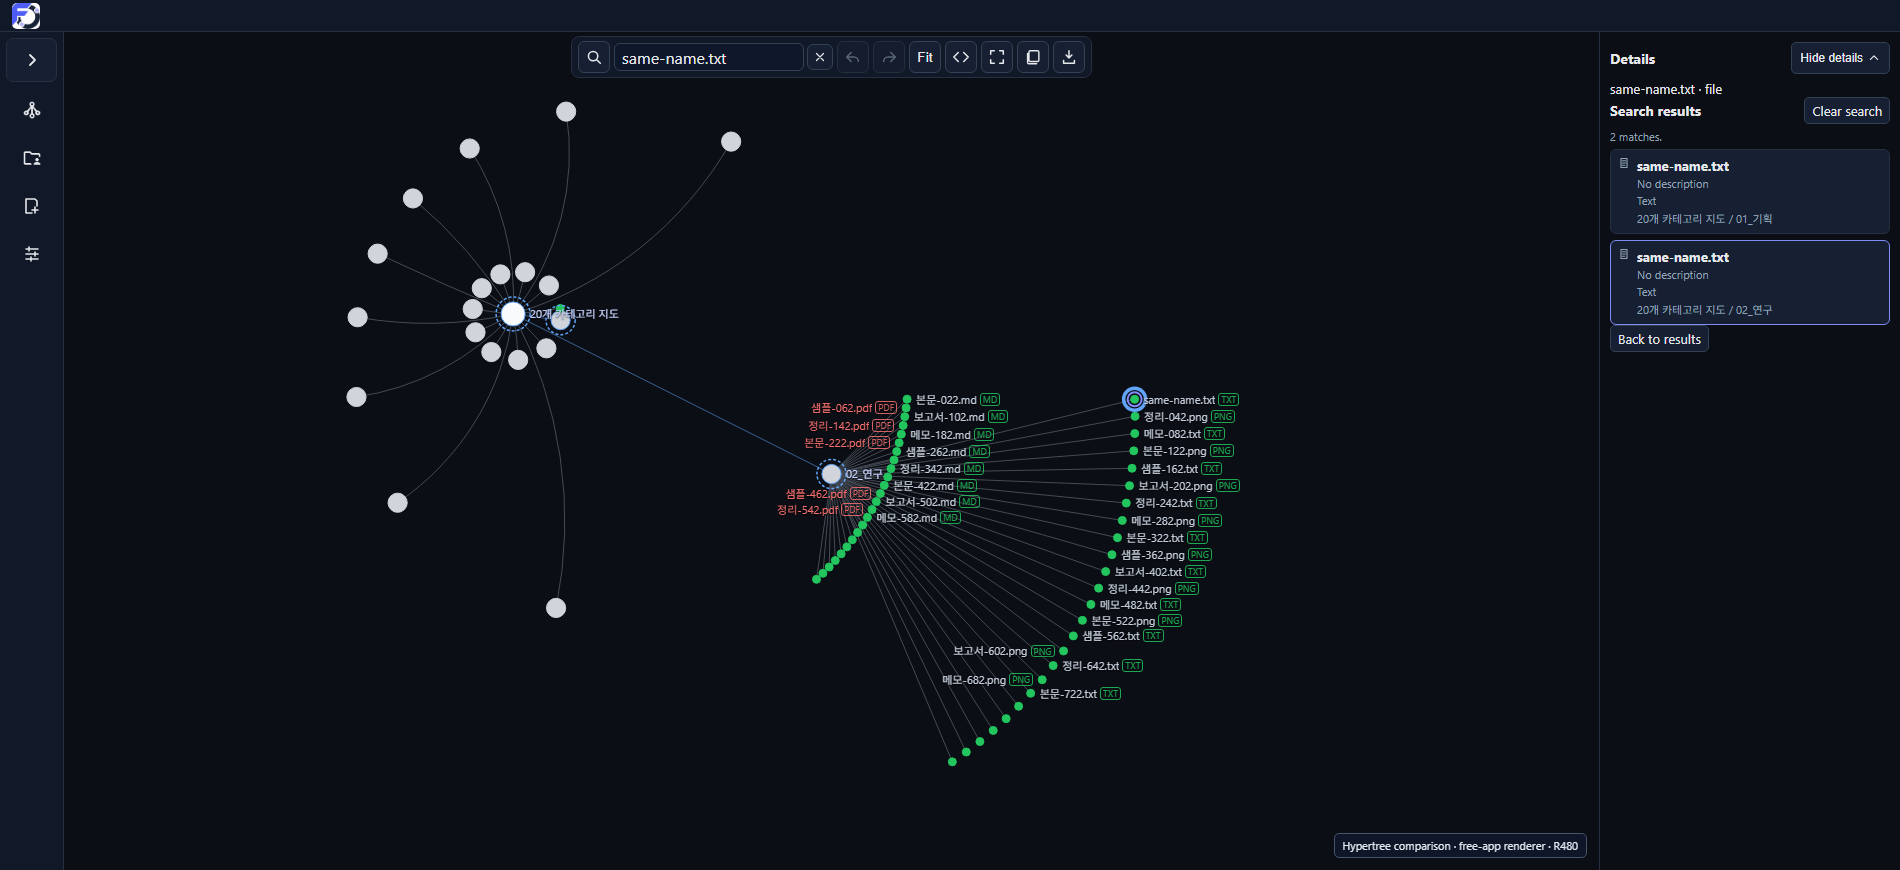
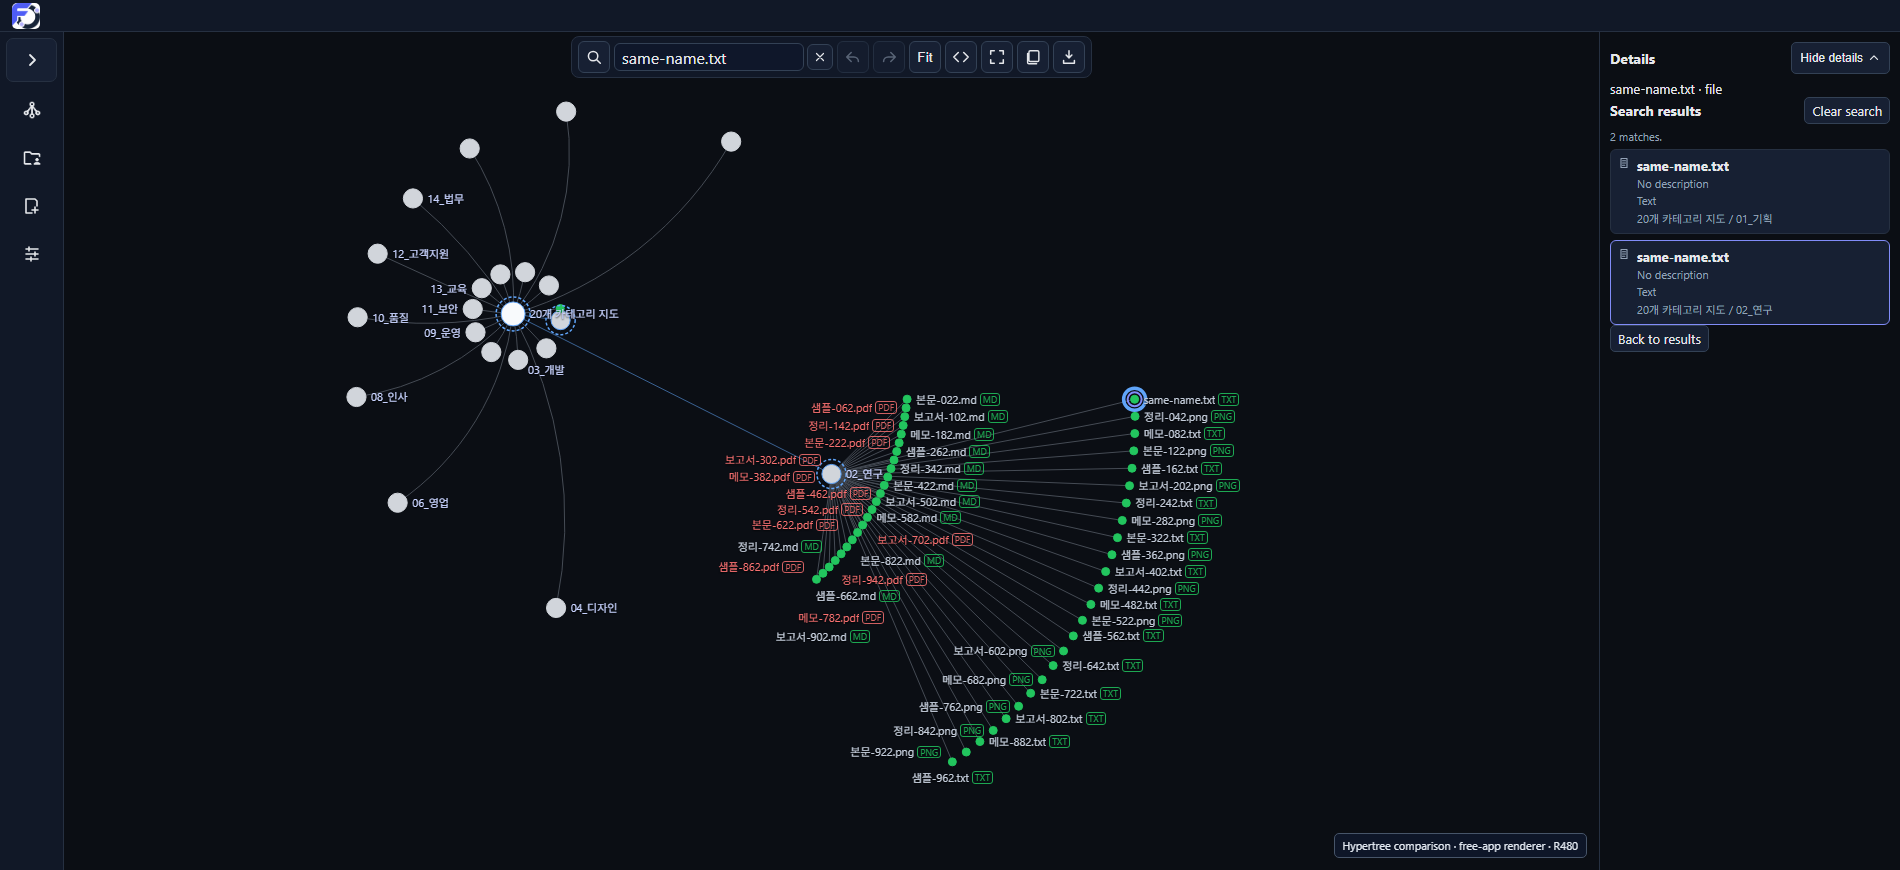
Record focused label readability and collision evidence

diff --git a/docs/engine/FILEORBIT-PC-LARGE-MAP-INTEGRATION.md b/docs/engine/FILEORBIT-PC-LARGE-MAP-INTEGRATION.md
@@ -407,3 +407,46 @@ Screenshots:
 
 The retained executable test is `hypertree-search-check.mjs`. Its latest invocation could not attach to a fresh Edge debugger (`webSocketDebuggerUrl` null); the successful results above are the actual UI trace captured before that environment failure. Root/nested/300 and dirty/stale search regressions remain to be run.
 
+
+## Focused filename readability and glyph collision (evaluation branch)
+
+Cat-12 at 1900×870, 1,000 nodes, settled:
+
+- immediate children: 50;
+- label candidates: 71;
+- created: 64;
+- visible: 38;
+- budget excluded: 7;
+- priority suppressed: 21;
+- label-node overlaps: 2;
+- selected label visible;
+- transition: null.
+
+Before the change the same settled state produced 9 visible labels out of 71 candidates.
+
+The `fixed-transition-policy` value is an invariant measurement identifier emitted by `transitionMetrics()`, not evidence that a transition is still active. The settled state reports `transition:null`.
+
+Changes:
+
+- focused folder and its immediate children are ordered before distant ancestors/context;
+- the comparison overlay budget is 64 (ordinary remains 40);
+- priority labels can use collision-checked offsets up to 96 CSS px;
+- selected labels retain the full existing offset range;
+- all offsets still obey viewport, label-label and glyph collision checks.
+
+Cat-1 after search: 46 visible of 73 candidates. The ordinary 300-node path still uses the 40-label budget.
+
+### f-0 / f-80 glyph collision
+
+Measured at the default cat-1 focus:
+
+- f-0 radius 4, f-80 radius 4;
+- center distance 3.78 CSS px;
+- radius sum 8;
+- f-0 center hit resolves to f-80;
+- f-80 center hit resolves to f-160;
+- f-0 filename label hit resolves to f-0.
+
+This is actual glyph overlap at Fit scale, not a radius-only bug. No forced “selected target wins” ordering was added. The tested disambiguation is the visible filename label: it resolves the exact file ID and remains actionable. Dot-center selection is not reported as passing.
+
+Screenshots: `cat12-default-labels.png`, `search-result-f0.png`, `search-result-f1.png`.

diff --git a/tests/harness/m5-exploration/integration-checks/README.md b/tests/harness/m5-exploration/integration-checks/README.md
@@ -48,3 +48,5 @@ These use test hooks/picker stubs, not native OS acceptance.
 
 - `hypertree-search-check.mjs`: actual same-name result buttons in R480; asserts parent focus, exact selected ID, Details, transition completion. Uses one debugger port, actual result buttons, cat-12 precondition, parent/selection/Details/hit assertions and finally cleanup.
 
+
+- `hypertree-search-check.mjs` also records focused label counts and the measured f-0/f-80 glyph overlap before activating both same-name results.
